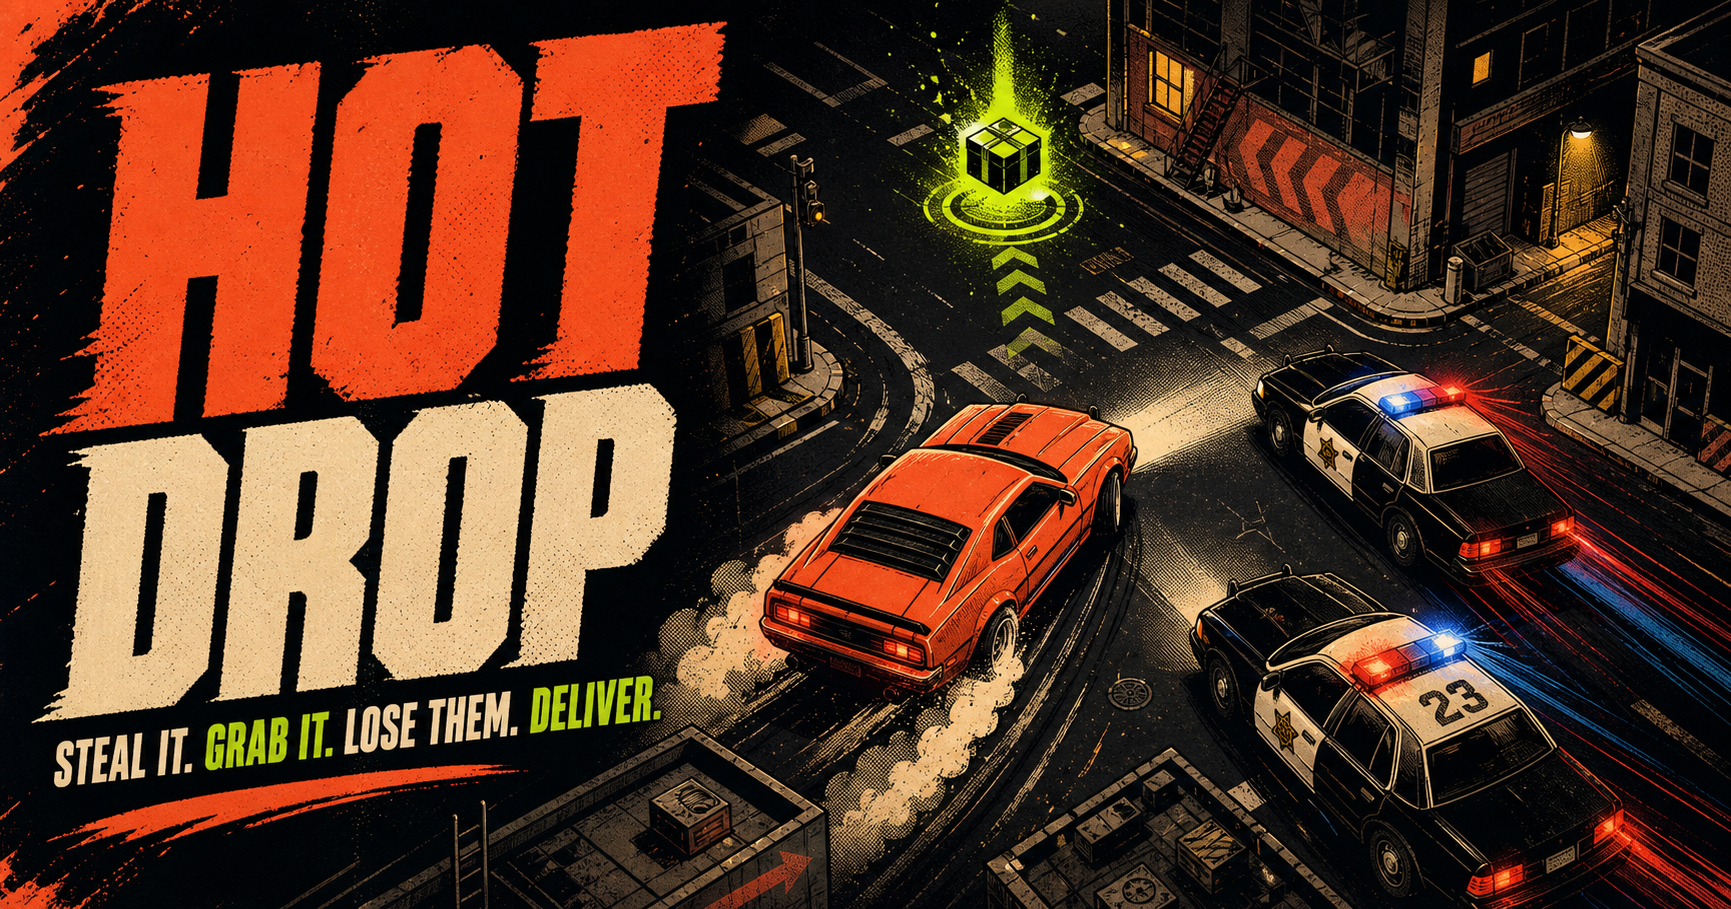
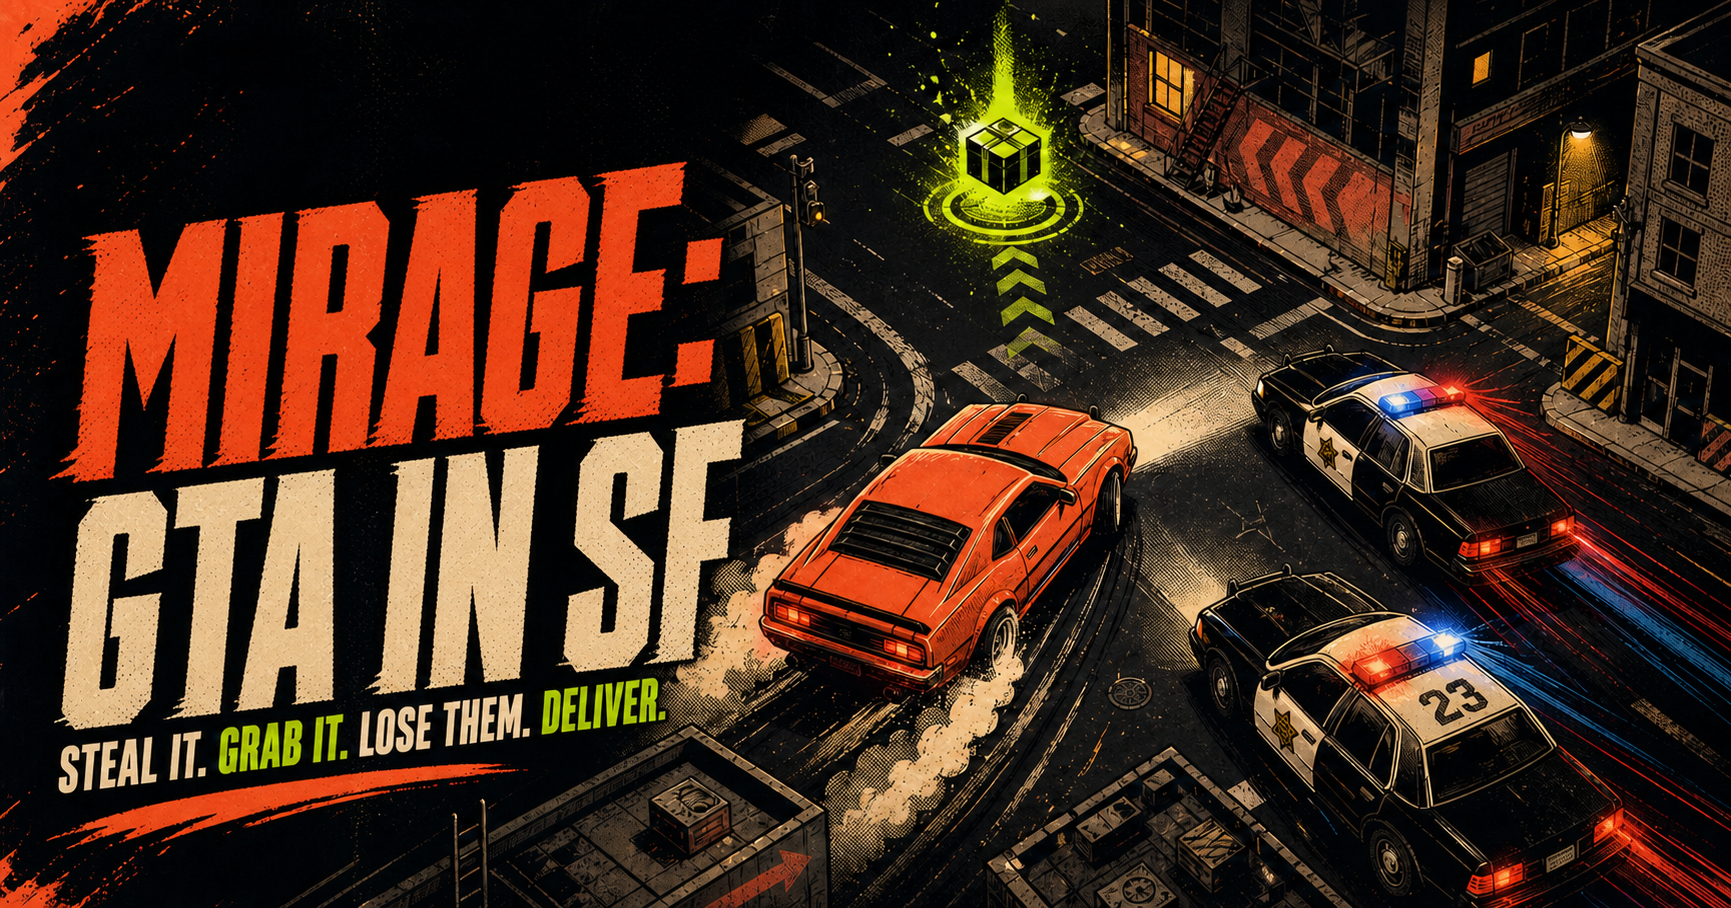
Rename game to Mirage: GTA in SF

diff --git a/app/game3d/HotDrop3D.tsx b/app/game3d/HotDrop3D.tsx
@@ -250,7 +250,7 @@ export function HotDrop3D() {
       ref={shellRef}
       className={baseStyles.shell}
       tabIndex={-1}
-      aria-label="Hot Drop 3D game"
+      aria-label="Mirage: GTA in SF 3D game"
     >
       <canvas
         ref={canvasRef}
@@ -261,9 +261,9 @@ export function HotDrop3D() {
 
       <header className={baseStyles.topHud}>
         <div className={baseStyles.brand}>
-          <span>Hot</span>
-          <strong>Drop</strong>
-          <small>Bay City · 3D build</small>
+          <span>Mirage:</span>
+          <strong>GTA in SF</strong>
+          <small>San Francisco · 3D build</small>
         </div>
         <div className={baseStyles.objectivePanel}>
           <span>Current move</span>
@@ -485,7 +485,7 @@ export function HotDrop3D() {
       {!runtimeReady && !runtimeError ? (
         <div className={styles.loading} role="status">
           <div>
-            <strong>Building Bay City</strong>
+            <strong>Building San Francisco</strong>
             <span>Starting the 3D world and physics simulation</span>
             <i aria-hidden="true" />
           </div>
@@ -510,9 +510,9 @@ export function HotDrop3D() {
             <p className={baseStyles.eyebrow}>
               One block. Full physics. No questions.
             </p>
-            <h1>
-              <span>Hot</span>
-              <strong>Drop</strong>
+            <h1 className={baseStyles.mirageTitle}>
+              <span>Mirage:</span>
+              <strong>GTA in SF</strong>
             </h1>
             <p className={baseStyles.tagline}>
               <span className={styles.dimensionNote}>Now in 3D.</span> Steal.
@@ -562,7 +562,7 @@ export function HotDrop3D() {
             </h2>
             <p>
               {mission.phase === "won"
-                ? "Bay City survived its first fully simulated handoff."
+                ? "San Francisco survived its first fully simulated handoff."
                 : "The city keeps moving. So should you."}
             </p>
             <div className={baseStyles.finalScore}>
@@ -623,7 +623,7 @@ function NavigationRadar({
       )} meters, ${direction.toLowerCase()}`}
     >
       <header className={styles.radarHeader}>
-        <span>Bay City GPS</span>
+        <span>SF GPS</span>
         <strong>{navigation.targetLabel}</strong>
         <b>{Math.round(navigation.targetDistance)}m</b>
       </header>

diff --git a/app/game/HotDrop.tsx b/app/game/HotDrop.tsx
@@ -257,7 +257,7 @@ export function HotDrop() {
       ref={shellRef}
       className={styles.shell}
       tabIndex={-1}
-      aria-label="Hot Drop game"
+      aria-label="Mirage: GTA in SF game"
     >
       <canvas
         ref={canvasRef}
@@ -269,9 +269,9 @@ export function HotDrop() {
 
       <header className={styles.topHud}>
         <div className={styles.brand}>
-          <span>Hot</span>
-          <strong>Drop</strong>
-          <small>Bay City · 02:17 AM</small>
+          <span>Mirage:</span>
+          <strong>GTA in SF</strong>
+          <small>San Francisco · 02:17 AM</small>
         </div>
 
         <div className={styles.objectivePanel}>
@@ -461,9 +461,9 @@ export function HotDrop() {
             <p className={styles.eyebrow}>
               One package. One city. No questions.
             </p>
-            <h1>
-              <span>Hot</span>
-              <strong>Drop</strong>
+            <h1 className={styles.mirageTitle}>
+              <span>Mirage:</span>
+              <strong>GTA in SF</strong>
             </h1>
             <p className={styles.tagline}>
               Steal it. Grab it. Lose them. Deliver.

diff --git a/app/layout.tsx b/app/layout.tsx
@@ -2,9 +2,9 @@ import type { Metadata } from "next";
 import { headers } from "next/headers";
 import "./globals.css";
 
-const title = "Hot Drop — A Bay City Getaway";
+const title = "Mirage: GTA in SF";
 const description =
-  "Drive a fully simulated 3D city, swap rides, protect the package, shed escalating police heat, and make the drop.";
+  "Drive a fully simulated 3D San Francisco, swap rides, protect the package, shed escalating police heat, and make the drop.";
 
 export async function generateMetadata(): Promise<Metadata> {
   const requestHeaders = await headers();
@@ -39,8 +39,8 @@ export async function generateMetadata(): Promise<Metadata> {
         {
           url: "/og.png",
           width: 1731,
-          height: 909,
-          alt: "Hot Drop getaway car escaping police through a night city",
+          height: 908,
+          alt: "Mirage: GTA in SF getaway car escaping police at night",
         },
       ],
     },

diff --git a/app/game/HotDrop.module.css b/app/game/HotDrop.module.css
@@ -532,6 +532,16 @@
   color: var(--cream);
 }
 
+.intro h1.mirageTitle span {
+  font-size: clamp(62px, 9.5vw, 128px);
+}
+
+.intro h1.mirageTitle strong {
+  font-size: clamp(44px, 6.7vw, 88px);
+  letter-spacing: -0.03em;
+  line-height: 0.76;
+}
+
 .tagline {
   margin: 34px 0 22px;
   font-size: clamp(16px, 2vw, 24px);

diff --git a/README.md b/README.md
@@ -1,9 +1,9 @@
-# Hot Drop
+# Mirage: GTA in SF
 
-A compact 3D city getaway powered by Three.js and Rapier. Steal the marked car,
-collect a package across town, then reach the safehouse while the police
-response escalates. Bail out and steal traffic cars to trade speed, durability,
-and cargo protection—or cut your heat with an unseen switch.
+Mirage: GTA in SF is a compact 3D city getaway powered by Three.js and Rapier.
+Steal the marked car, collect a package across town, then reach the safehouse
+while the police response escalates. Bail out and steal traffic cars to trade
+speed, durability, and cargo protection—or cut your heat with an unseen switch.
 
 ## Play
 
